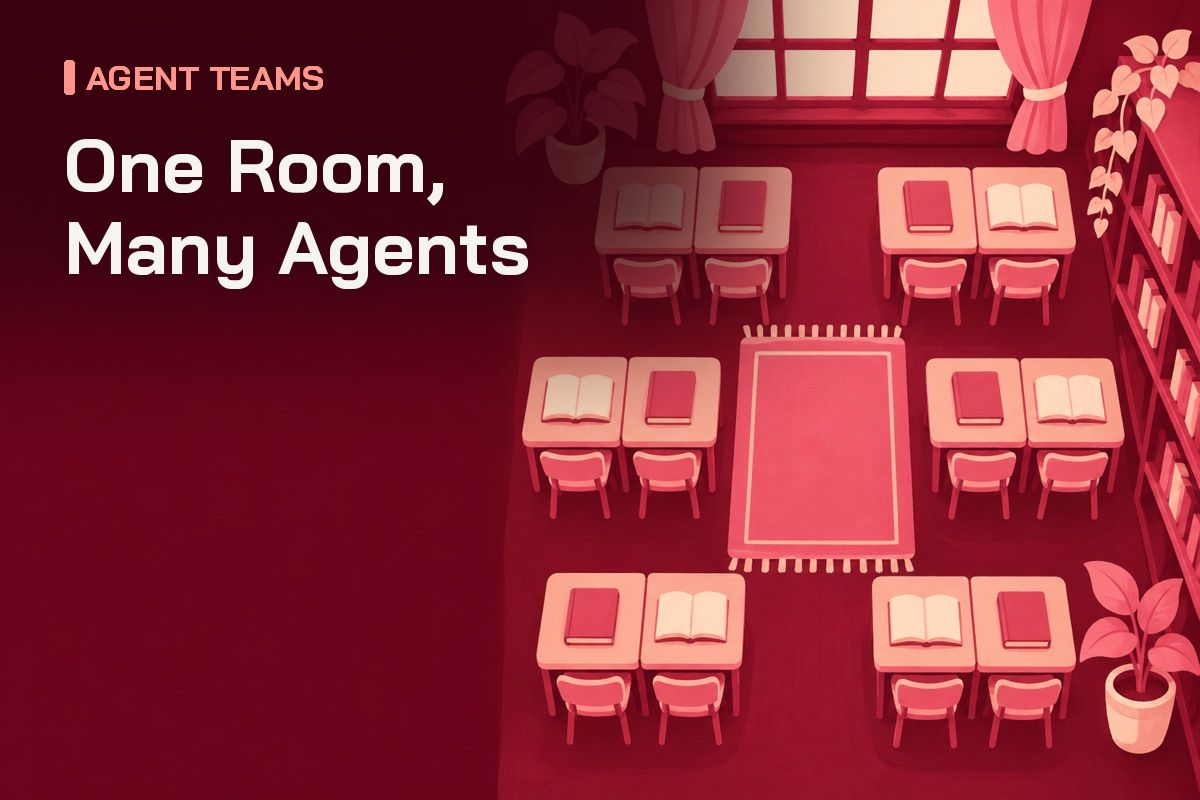
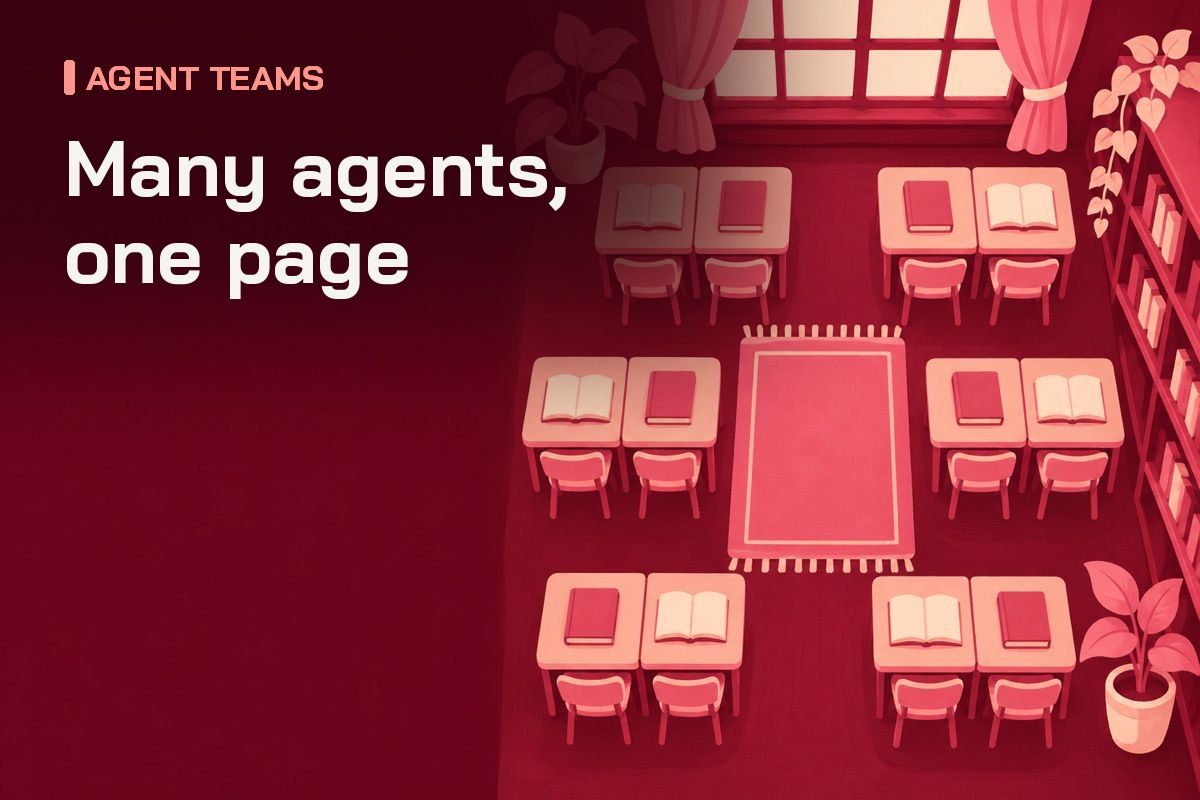
feat(site): cover titles say what each lesson gives you, summarised from its content
The cover titles were the lesson names. They now summarise the lesson, for example
"Change one word, the seal breaks" (signature), "Your agent gets its own browser" (ego-lite),
"Every machine's history, one hub" (relic5 install). Group colours and tags are unchanged.
Link-preview cards rebuilt. (Nat, 8 Nov: "the title can we use like sumarize from the content")

Changed region(s): [[0.0308, 0.1562, 0.4933, 0.375]]

diff --git a/ψ/writing/books/covers/title.py b/ψ/writing/books/covers/title.py
@@ -7,11 +7,15 @@ def face(size):
     for i in range(16):
         f = ImageFont.truetype(str(P), size, index=i, layout_engine=ImageFont.Layout.RAQM)
         if f.getname()[1] == "Bold": return f
-T = {"claude-chatgpt": "Install|Claude & ChatGPT", "ego-lite": "A Browser|for Your Agent", "mcp-connect": "Connect the|Lessons MCP",
-     "phukhao-film": "An Oracle Films|Its Own Story", "phukhao-journey": "Phukhao's|Journey", "herdr-room": "One Room,|Many Agents",
-     "build-mcp": "Build Your|Own MCP", "agy-mcp": "Antigravity CLI|+ MCP", "skills-mcp": "Skills, Voice|and Video",
-     "relic5-ui": "A Tour of|relic5", "team-charter": "From Picture|to Team", "herdr-cmd-j": "Cmd J|and Cmd L",
-     "relic5-install": "Every Machine,|One Hub", "signature": "The Lessons'|Signature"}
+# v3 (Nat, 8 Nov: "the title can we use like sumarize from the content"): each cover says what the lesson gives you,
+# taken from its content, not its name (v1/v2 names are in git history)
+T = {"claude-chatgpt": "Install your AI,|load the skills", "ego-lite": "Your agent gets|its own browser",
+     "mcp-connect": "Your chat AI|reads the lessons", "phukhao-film": "An Oracle films|its own story",
+     "phukhao-journey": "From its birth|to the stage", "herdr-room": "Many agents,|one page",
+     "build-mcp": "Turn lessons|into AI tools", "agy-mcp": "Google's agy|reads the lessons",
+     "skills-mcp": "One MCP: skills,|voice and video", "relic5-ui": "Every session,|searchable",
+     "team-charter": "Sketch a team,|watch it work", "herdr-cmd-j": "One line to the|right agents",
+     "relic5-install": "Every machine's|history, one hub", "signature": "Change one word,|the seal breaks"}
 # v2 (Nat, 8 Nov: "make cover easy to scan, make it different"): each landing group has its own colour world (gen2.sh)
 # and a small group tag above the title in that colour; the scrim behind the title takes the picture's own dark tone
 GROUP = {"skills-mcp": "start", "mcp-connect": "start", "agy-mcp": "start", "ego-lite": "start", "claude-chatgpt": "start",
